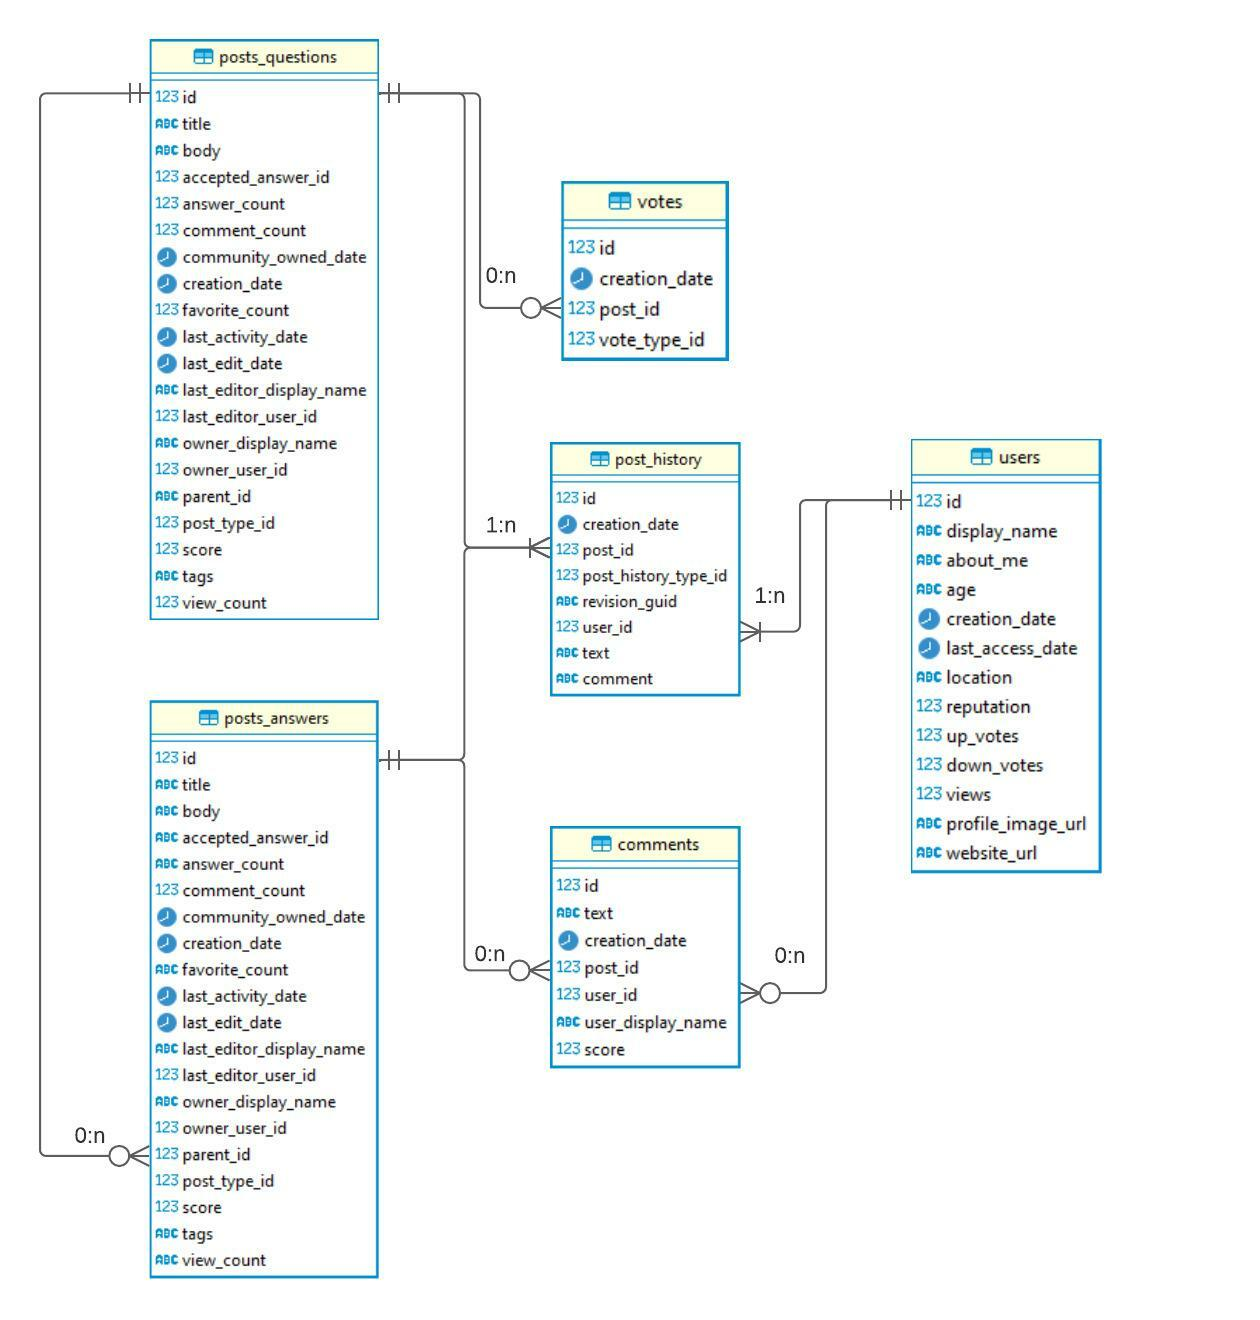
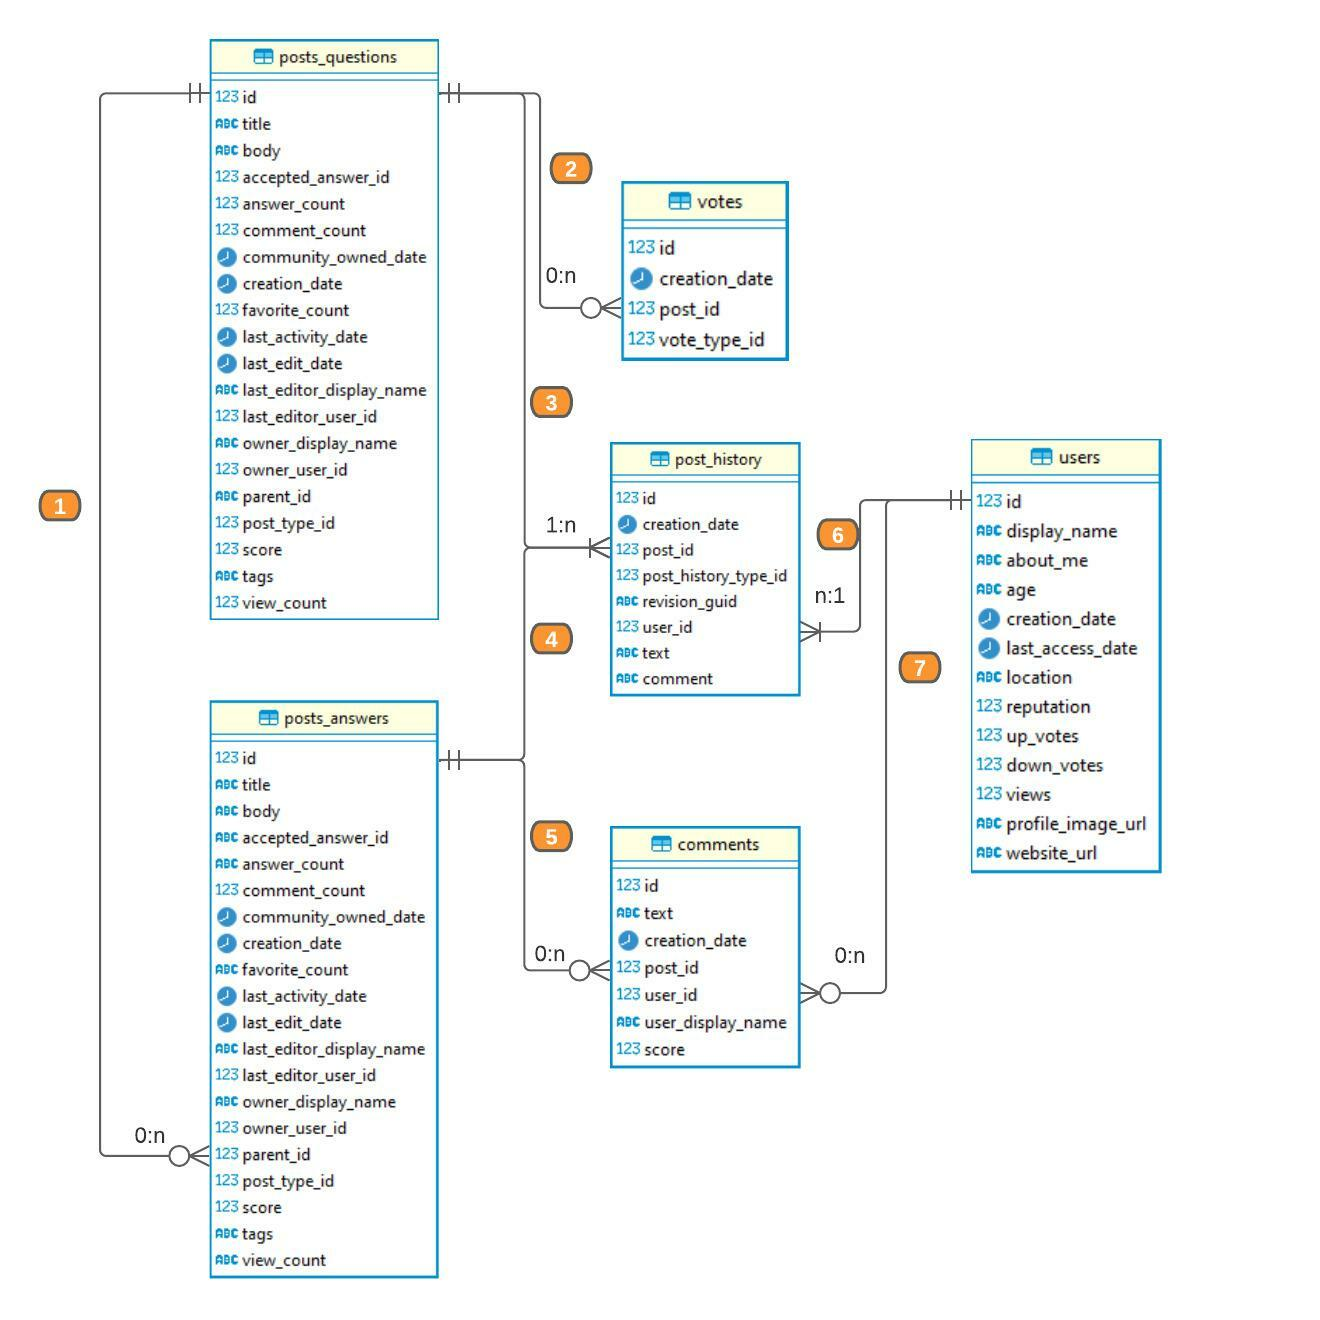
vault backup: 2022-03-05 17:04:30

diff --git a/Book/chap1.md b/Book/chap1.md
@@ -45,7 +45,7 @@ Writing accurate and efficient SQL begins with understanding the data model we'r
 The original StackOverflow (SO) data model is different from the one loaded in BigQuery. When the engineers loaded it, they modified the mode somewhat. For example the SO model contains a single `Posts` table for all the different post types whereas BigQuery split each one into a separate table.
 
 Here's a look at the Entity-Relationship (ER) diagram
-![[StackOverflow BQ ER Diagram 1.jpeg]]
+![[StackOverflow BQ ER Diagram.jpeg]]
 **Figure 1.1 - StackOverflow ER diagram**
 
 There are 8 tables that represent the various post types. You can get this result by using the `INFORMATION_SCHEMA` views in BigQuery like this:
@@ -103,14 +103,13 @@ WHERE table_name = 'posts_answers'
 
 Both tables have an `id` column that identifies a single post, `creation_date` that identifies the timestamp when the post was created and a few other attributes like `score` for the upvotes and downvotes. 
 
-Note the `parent_id` column which signifies a hierarchical structure. The `parent_id` is a one-to-many relationship that links up an answer to the corresponding question. A single question can have multiple answers but an answer belongs to one and only one question. This is relation 1 in the **Figure 1.1** above 
+Note the `parent_id` column which signifies a hierarchical structure. The `parent_id` is a one-to-many relationship that links up an answer to the corresponding question. A single question can have multiple answers but an answer belongs to one and only one question. This is relation 1 in the **Figure 1.1** above.
 
-Both tables are connected to `post_history` via 
+Both post types (question and answer) have a one-to-many relationship to the `post_history`. These are relations 3 and 4 in the diagram above.
 
-As you can see there's no `user_id` in the table because posts and users have a many-to-many relationship. They're connected via the `post_history` table.
 ```sql
 SELECT column_name, data_type
-FROM `bigquery-public-data.stackoverflow.INFORMATION_SCHEMA.COLUMNS`
+FROM bigquery-public-data.stackoverflow.INFORMATION_SCHEMA.COLUMNS
 WHERE table_name = 'post_history'
 
 |column_name         |data_type|
@@ -125,12 +124,10 @@ WHERE table_name = 'post_history'
 |comment             |STRING   |
 ```
 
-Both post types (question and answer) have a one-to-many relationship to the `post_history`. A single post can have many types of activities identified by the `post_history_type_id` column. 
-
-This id indicates the different types of activities a user can do on the site. We're only concerned with the first 6. You can see the rest of them [here](https://meta.stackexchange.com/questions/2677/database-schema-documentation-for-the-public-data-dump-and-sede/2678#2678) if you're curious.
+A single post can have many types of activities identified by the `post_history_type_id` column. This id indicates the different types of activities a user can perform on the site. We're only concerned with the first 6. You can see the rest of them [here](https://meta.stackexchange.com/questions/2677/database-schema-documentation-for-the-public-data-dump-and-sede/2678#2678) if you're curious.
 
 1. Initial Title - initial title _(questions only)_
-2. Initial Body - initial post raw body text
+2. Initial Body - initial post _(raw body text)_
 3. Initial Tags - initial list of tags _(questions only)_ 
 4. Edit Title - modified title _(questions only)_
 5. Edit Body - modified post body _(raw markdown)_
@@ -138,13 +135,15 @@ This id indicates the different types of activities a user can do on the site. W
 
 The first 3 indicate when a post is first submitted and the next 3 when a post is edited.
 
-This table also connects to the `users` table. A single user can perform multiple activities on a post. This is known as a bridge table between the users and posts which have a many-to-many relationship which cannot be modeled otherwise.
+The `post_history` table also connects to the `users` table via the `user_id` in a one-to-many relationship shown in the diagram as number 6.  A single user can perform multiple activities on a post.
+
+In database lingo this is known as a bridge table because it connects two tables (user and posts) that have a many-to-many relationship which cannot be modeled otherwise.
 
 The `users` table has one row per user and contains user attributes such as name, reputation, etc. We'll use some of these attributes in our final table.
 
 ```sql
 SELECT column_name, data_type
-FROM `bigquery-public-data.stackoverflow.INFORMATION_SCHEMA.COLUMNS`
+FROM bigquery-public-data.stackoverflow.INFORMATION_SCHEMA.COLUMNS
 WHERE table_name = 'users'
 
 |column_name      |data_type|
@@ -164,11 +163,11 @@ WHERE table_name = 'users'
 |website_url      |STRING   |
 ```
 
-Next we take a look at the `comments` table. It has a zero-to-many relationship with posts and with users, which means that both a user or a post could have 0 comments. The connection to the posts indicates comments on a post and the connection to the user indicates comments by a user.
+Next we take a look at the `comments` table. It has a zero-to-many relationship with posts and with users shown in the diagram as number 5 and number 7, since both a user or a post could have 0 or many comments.
 
 ```sql
 SELECT column_name, data_type
-FROM `bigquery-public-data.stackoverflow.INFORMATION_SCHEMA.COLUMNS`
+FROM bigquery-public-data.stackoverflow.INFORMATION_SCHEMA.COLUMNS
 WHERE table_name = 'comments'
 
 |column_name      |data_type|
@@ -182,11 +181,11 @@ WHERE table_name = 'comments'
 |score            |INT64    |
 ```
 
-Finally the `votes` table represents the upvotes and downvotes on a post. Once we connect a post to a user, we can compute This is exactly what we need to compute the total vote count on a user's post which will indicate how good the question or the answer is. This table has a granularity of one row per vote per post per date.
+Finally the `votes` table represents the upvotes and downvotes on a post. We'll need this to compute the total vote count on a user's post which will indicate how good the question or the answer is. This table has a granularity of one row per vote per post per date.
 
 ```sql
 SELECT column_name, data_type
-FROM `bigquery-public-data.stackoverflow.INFORMATION_SCHEMA.COLUMNS`
+FROM bigquery-public-data.stackoverflow.INFORMATION_SCHEMA.COLUMNS
 WHERE table_name = 'votes'
 
 |column_name  |data_type|
@@ -197,4 +196,6 @@ WHERE table_name = 'votes'
 |vote_type_id |INT64    |
 ```
 
-Note that the `votes` table is connected to a post, so in order for us to get upvotes and downvotes on a user's post, we'll need to join it with the `users` table.
+The `votes` table is connected to a post in a 0-to-many relationship shows in the diagram as number 2. In order for us to get upvotes and downvotes on a user's post, we'll need to join it with the `users` table.
+
+Alright, now that we've familiarized ourselves with the source data model, it's time to dive into the patterns!

diff --git a/Book/chap2.md b/Book/chap2.md
@@ -15,14 +15,14 @@ To find a table's granularity you either read the documentation, or if that does
 How do you check? It's easy.
 
 For the `post_history` table we can run the following query:
-```
+```sql
 SELECT 
 	creation_date,
 	post_id,
 	post_history_type_id,
 	user_id,
 	COUNT(*) AS total_rows
-FROM `bigquery-public-data.stackoverflow.post_history`
+FROM bigquery-public-data.stackoverflow.post_history
 GROUP BY 1,2,3,4
 HAVING COUNT(*) > 1;
 ```
@@ -54,14 +54,14 @@ That's why it's very common in data warehouses to store data at the lowest possi
 Let's refer again to the previous example. 
 
 If I simply select the columns I want without aggregation, we get duplicates which as we mentioned earlier will mess up joins later. (Rows 2 and 3 are the same)
-```
+```sql
 SELECT 
 	creation_date,
 	post_id,
 	post_history_type_id,
 	user_id
 FROM 
-	`bigquery-public-data.stackoverflow.post_history`
+	bigquery-public-data.stackoverflow.post_history
 WHERE 
 	post_id = 63272171 
 	AND user_id = 14038907
@@ -77,14 +77,14 @@ creation_date          |post_id |post_history_type_id|user_id |
 ```
 
 By simply adding a `GROUP BY` we can easily solve this problem
-```
+```sql
 SELECT 
 	creation_date,
 	post_id,
 	post_history_type_id,
 	user_id
 FROM 
-	`bigquery-public-data.stackoverflow.post_history`
+	bigquery-public-data.stackoverflow.post_history
 WHERE 
 	post_id = 63272171 
 	AND user_id = 14038907
@@ -104,7 +104,7 @@ Notice that for the purposes of removing duplicates we don't need to use an aggr
 Of course using aggregate functions is the most common way to aggregate data. Summing up or counting multiple rows are still the workhorse of aggregation. We'll use that a lot in our project.
 
 Here's a traditional application of it:
-```
+```sql
 SELECT
 	user_id,
 	CAST(creation_date AS DATE) AS activity_date,
@@ -121,14 +121,14 @@ GROUP BY
 
 ### Pivoting Data
 Here's another pattern that's very commonly used for aggregation:
-```
+```sql
 SELECT
 	post_id,
 	CAST(v.creation_date AS DATE) AS activity_date,
 	SUM(CASE WHEN vote_type_id = 2 THEN 1 ELSE 0 END) AS total_upvotes,
 	SUM(CASE WHEN vote_type_id = 3 THEN 1 ELSE 0 END) AS total_downvotes,
 FROM
-	`bigquery-public-data.stackoverflow.votes` v
+	bigquery-public-data.stackoverflow.votes v
 WHERE
 	TRUE
 	AND v.creation_date >= CAST('2021-06-01' as TIMESTAMP) 
@@ -186,7 +186,7 @@ I assume you're familiar with them if you're reading this book, so what I wanted
 If any of tables has duplicates for the columns being joined on, the final result set will be multiplied by the number of duplicates.
 
 For example in our case the `users` table has a grain of one row per user:
-```
+```sql
 SELECT
 	id,
 	display_name,
@@ -203,7 +203,7 @@ id     |display_name|creation_date          |reputation|views|
 ```
 
 Whereas the `post_history` table has multiple rows for the same user:
-```
+```sql
 SELECT
 	id,
 	creation_date,
@@ -211,7 +211,7 @@ SELECT
 	post_history_type_id,
 	user_id 
 FROM
-	`bigquery-public-data.stackoverflow.post_history` ph
+	bigquery-public-data.stackoverflow.post_history` ph
 WHERE
 	TRUE
 	AND ph.creation_date >= CAST('2021-06-01' as TIMESTAMP) 
